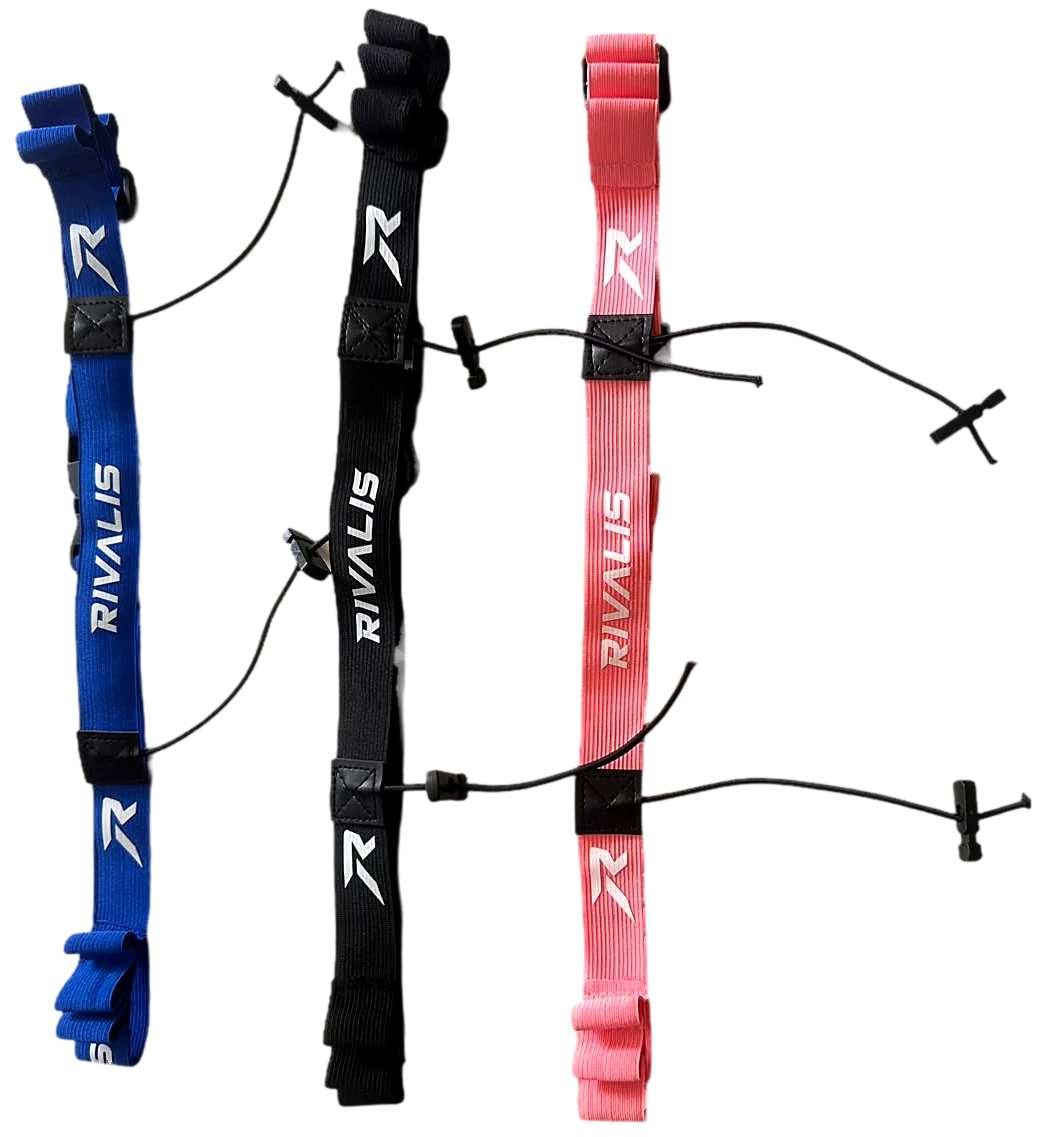
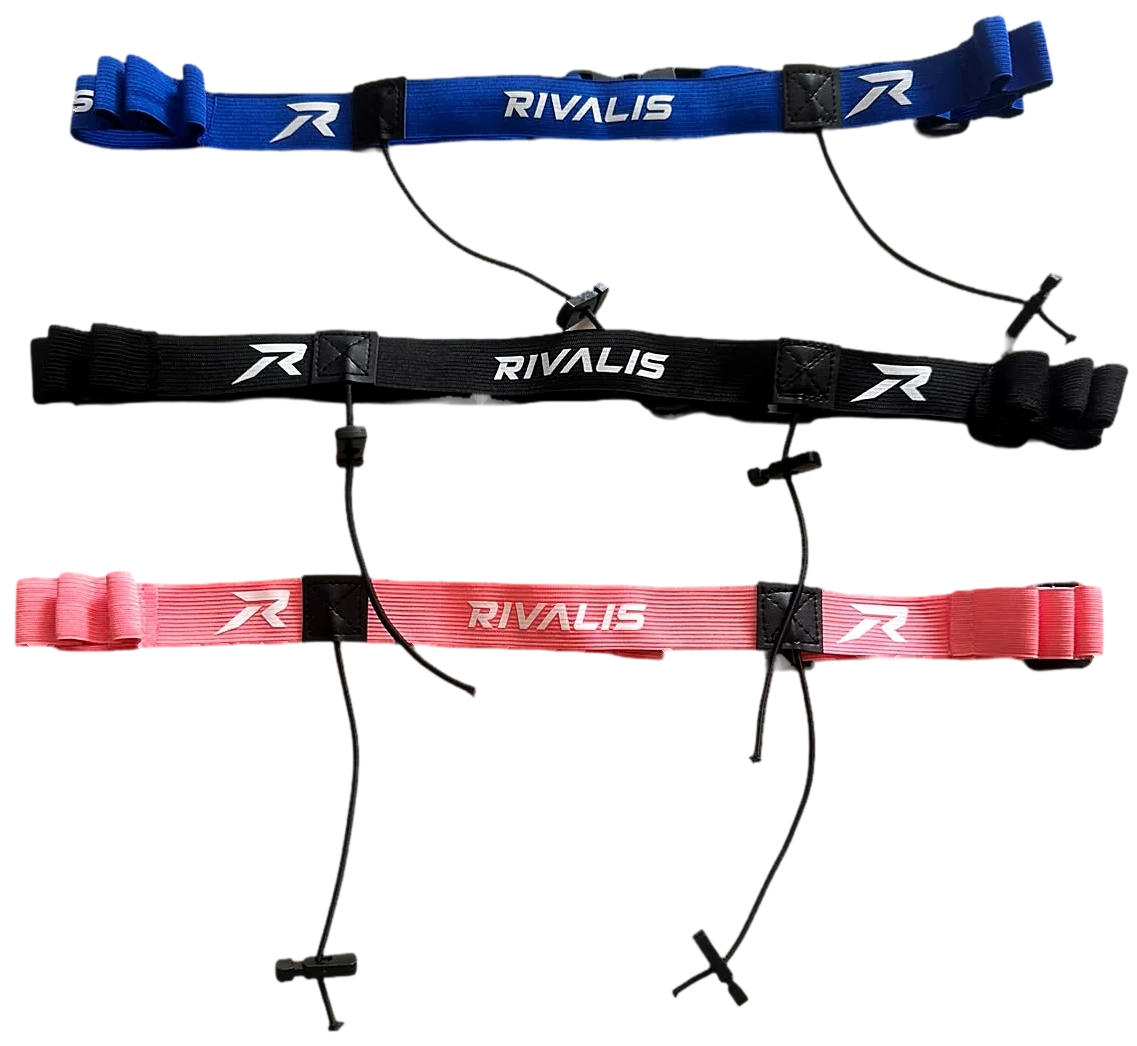
actualizar pagina

diff --git a/index.html b/index.html
@@ -72,7 +72,7 @@
             { "@type": "ListItem", "position": 2, "name": "Ánforas de TPU 350 ml y 500 ml libres de PVC y BPA" },
             { "@type": "ListItem", "position": 3, "name": "Toallas de microfibra" },
             { "@type": "ListItem", "position": 4, "name": "Calcetines técnicos" },
-            { "@type": "ListItem", "position": 5, "name": "Mochilas deportivas (próximamente)" }
+            { "@type": "ListItem", "position": 5, "name": "Mochilas deportivas" }
           ]
         }
       ]
@@ -363,16 +363,16 @@
                 <figure class="prod__media" data-tilt>
                     <div class="prod__plate" aria-hidden="true"></div>
                     <!-- ACTUALIZAR FOTO: reemplaza el archivo de img/web/ o cambia el src -->
-                    <img class="prod__img prod__img--main prod__img--tall" src="img/web/belts-trio.webp" width="1046" height="1137" alt="Tres cinturones porta número Rivalis en azul, negro y rosa, con logotipo estampado y cordones elásticos ajustables" loading="lazy" decoding="async">
+                    <img class="prod__img prod__img--main prod__img--tall" src="img/web/belts-trio.webp" width="1137" height="1046" alt="Tres cinturones porta número Rivalis en azul, negro y rosa, con logotipo estampado y cordones elásticos ajustables" loading="lazy" decoding="async">
                 </figure>
                 <div class="prod__body">
                     <p class="prod__tag"><svg class="ico" aria-hidden="true"><use href="#i-belt"/></svg>Para tu dorsal</p>
                     <h3 id="p-belts">Cinturones porta número</h3>
                     <p>Tu número, firme desde el disparo hasta la meta. Sin alfileres, sin que se mueva y sin estorbarte en la transición.</p>
                     <ul class="chips">
-                        <li>Hebilla de cierre rápido</li>
-                        <li>Cordones elásticos con tope</li>
-                        <li>Rosa · Azul · Negro</li>
+                        <li>Porta geles</li>
+                        <li>Tiras elásticas</li>
+                        <li>Broche de cierre rápido</li>
                     </ul>
                     <a class="btn btn--primary" href="https://wa.me/529982588834" data-wa="Hola Rivalis, quiero mis cinturones porta número. ¿Qué colores tienen disponibles?" target="_blank" rel="noopener"><span>Quiero mi cinturón<svg class="ico" aria-hidden="true"><use href="#i-arrow-ne"/></svg></span></a>
                 </div>
@@ -410,9 +410,8 @@
                     <h3 id="p-towel">Toallas de microfibra</h3>
                     <p>Compactas, suaves y listas para la mochila. Con el logotipo Rivalis tono sobre tono: sobrio, elegante y de competencia.</p>
                     <ul class="chips">
-                        <li>Microfibra técnica</li>
-                        <li>Ligera y compacta</li>
-                        <li>Logo tono sobre tono</li>
+                        <li>Microfibra</li>
+                        <li>Tamaño grande: 70 cm × 1.40 m</li>
                     </ul>
                     <a class="btn btn--primary" href="https://wa.me/529982588834" data-wa="Hola Rivalis, quiero mi toalla de microfibra. ¿Qué tamaños tienen?" target="_blank" rel="noopener"><span>Quiero mi toalla<svg class="ico" aria-hidden="true"><use href="#i-arrow-ne"/></svg></span></a>
                 </div>
@@ -451,14 +450,14 @@
                     <img class="prod__img prod__img--main prod__img--tall" src="img/web/mochilas.webp" width="1008" height="1338" alt="Tres mochilas deportivas en negro, blanco y gris, con bolsillo frontal de malla y compartimento inferior transparente" loading="lazy" decoding="async">
                 </figure>
                 <div class="prod__body">
-                    <p class="prod__tag prod__tag--lime"><svg class="ico" aria-hidden="true"><use href="#i-backpack"/></svg>Algo grande está por llegar</p>
+                    <p class="prod__tag prod__tag--lime"><svg class="ico" aria-hidden="true"><use href="#i-backpack"/></svg>Para todo tu equipo</p>
                     <h3 id="p-bags">Mochilas Rivalis</h3>
-                    <p>Llevan tu mundo de competencia de la casa a la meta. Sé de los primeros en conocerlas: avísame y te escribimos en cuanto lleguen.</p>
+                    <p>Llevan tu mundo de competencia de la casa a la meta.</p>
                     <ul class="chips">
                         <li>Nueva línea</li>
                         <li>Edición de lanzamiento</li>
                     </ul>
-                    <a class="btn btn--primary" href="https://wa.me/529982588834" data-wa="Hola Rivalis, quiero enterarme cuando lleguen las mochilas. ¡Avísenme!" target="_blank" rel="noopener"><span>Avísame cuando lleguen<svg class="ico" aria-hidden="true"><use href="#i-arrow-ne"/></svg></span></a>
+                    <a class="btn btn--primary" href="https://wa.me/529982588834" data-wa="Hola Rivalis, quiero mi mochila. ¿Qué modelos y colores tienen?" target="_blank" rel="noopener"><span>Quiero mi mochila<svg class="ico" aria-hidden="true"><use href="#i-arrow-ne"/></svg></span></a>
                 </div>
             </article>
 
@@ -653,7 +652,7 @@
                     <option>Ánforas de TPU</option>
                     <option>Toallas de microfibra</option>
                     <option>Calcetines técnicos</option>
-                    <option>Mochilas (próximamente)</option>
+                    <option>Mochilas</option>
                     <option>Quiero ver todo el equipo</option>
                 </select>
                 <label for="fInterest">¿Qué te interesa?</label>
